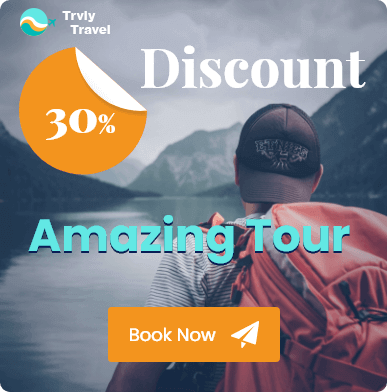
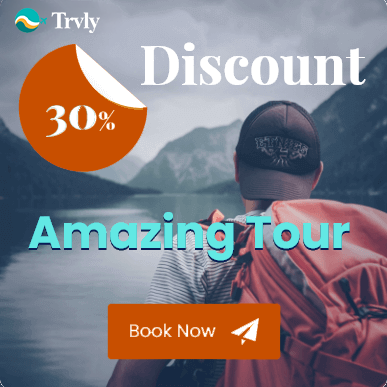
Accessibility improvements.

diff --git a/assets/components/footer.html b/assets/components/footer.html
@@ -1,29 +1,31 @@
 <!-- newsletter area Start -->
-<div class="newsletter-area">
-    <div class="container">
-        <div class="newsletter-area-wrap border-tp-solid">
-            <div class="row">
-                <div class="col-xl-3 col-lg-6 col-md-5 offset-xl-2">
-                    <div class="section-title mb-md-0">
-                        <h2 class="title">Newsletter</h2>
-                        <p>Sign up to receive the best offers</p>
-                    </div>
-                </div>
-                <div class="col-xl-4 col-lg-6 col-md-7 align-self-center offset-xl-1">
-                    <div class="input-group newsletter-wrap">
-                        <div class="input-group-prepend">
-                            <span class="input-group-text"><i class="fa fa-envelope"></i></span>
+<section aria-label="Newsletter subscription">
+    <div class="newsletter-area">
+        <div class="container">
+            <div class="newsletter-area-wrap border-tp-solid">
+                <div class="row">
+                    <div class="col-xl-3 col-lg-6 col-md-5 offset-xl-2">
+                        <div class="section-title mb-md-0">
+                            <h2 class="title">Newsletter</h2>
+                            <p>Sign up to receive the best offers</p>
                         </div>
-                        <input type="text" class="form-control" placeholder="Email">
-                        <div class="input-group-append">
-                            <button class="btn btn-yellow" type="button">Subscribe</button>
+                    </div>
+                    <div class="col-xl-4 col-lg-6 col-md-7 align-self-center offset-xl-1">
+                        <div class="input-group newsletter-wrap">
+                            <div class="input-group-prepend">
+                                <span class="input-group-text"><i class="fa fa-envelope"></i></span>
+                            </div>
+                            <input type="text" class="form-control" placeholder="Email">
+                            <div class="input-group-append">
+                                <button class="btn btn-yellow" type="button">Subscribe</button>
+                            </div>
                         </div>
                     </div>
                 </div>
             </div>
         </div>
     </div>
-</div>
+</section>
 <!-- newsletter area End -->
 
 <!-- footer area start -->

diff --git a/assets/css/style.css b/assets/css/style.css
@@ -2,7 +2,7 @@
 
 
 :root {
-  --main-color-one: #F3941E;
+  --main-color-one: #c84f00;
   --main-color-two: #071C55;
   --heading-color: #071C55;
   --paragraph-color: #666;
@@ -623,7 +623,7 @@ ul {
   height: 100%;
   z-index: 1;
   opacity: 0;
-  background-color: rgba(255, 255, 255, 0.2);
+  background-color: rgba(255, 255, 255, 0.25);
   -webkit-transform: scale(1, 0.5);
   -ms-transform: scale(1, 0.5);
   transform: scale(1, 0.5);
@@ -6956,7 +6956,7 @@ ul.wp-block-latest-posts.is-grid.alignwide {
 
 .user-verification .notice {
   background: #F8F8F8;
-  border: 1px solid #F3941E;
+  border: 1px solid #c84f00;
   border-radius: 4px;
   height: 50px;
   width: 100%;

diff --git a/index.html b/index.html
@@ -90,8 +90,7 @@
                         </div>
                         <div class="col-lg-2 col-md-4">
                             <div class="tp-search-single-wrap">
-                                <input class="w-100 destination-autocomplete" type="text"
-                                    placeholder="Departuring City">
+                                <input class="w-100 destination-autocomplete" type="text" placeholder="Where From?">
                                 <i class="fa fa-dot-circle-o"></i>
                             </div>
                         </div>

diff --git a/destination-list.html b/destination-list.html
@@ -320,8 +320,8 @@
     <script src="assets/js/jquery-ui.min.js"></script>
     <script src="assets/js/jarallax.min.js"></script>
 
-    <!-- Component Loader - Must be after jQuery plugins but BEFORE main.js -->`n
-    <script src="assets/js/components-loader.js"></script>`n`n <!-- main js -->`n
+    <!-- Component Loader - Must be after jQuery plugins but BEFORE main.js -->
+    <script src="assets/js/components-loader.js"></script> <!-- main js -->
     <script src="assets/js/main.js"></script>
 
 </body>

diff --git a/user-profile.html b/user-profile.html
@@ -362,8 +362,8 @@
     <script src="assets/js/jquery-ui.min.js"></script>
     <script src="assets/js/jarallax.min.js"></script>
 
-    <!-- Component Loader - Must be after jQuery plugins but BEFORE main.js -->`n
-    <script src="assets/js/components-loader.js"></script>`n`n <!-- main js -->`n
+    <!-- Component Loader - Must be after jQuery plugins but BEFORE main.js -->
+    <script src="assets/js/components-loader.js"></script> <!-- main js -->
     <script src="assets/js/main.js"></script>
 
 </body>

diff --git a/contact.html b/contact.html
@@ -181,8 +181,8 @@
     <script src="assets/js/jquery-ui.min.js"></script>
     <script src="assets/js/jarallax.min.js"></script>
 
-    <!-- Component Loader - Must be after jQuery plugins but BEFORE main.js -->`n
-    <script src="assets/js/components-loader.js"></script>`n`n <!-- main js -->
+    <!-- Component Loader - Must be after jQuery plugins but BEFORE main.js -->
+    <script src="assets/js/components-loader.js"></script> <!-- main js -->
     <script src="assets/js/main.js"></script>
 
 

diff --git a/tour-details.html b/tour-details.html
@@ -504,8 +504,8 @@
     <script src="assets/js/jquery-ui.min.js"></script>
     <script src="assets/js/jarallax.min.js"></script>
 
-    <!-- Component Loader - Must be after jQuery plugins but BEFORE main.js -->`n
-    <script src="assets/js/components-loader.js"></script>`n`n <!-- main js -->
+    <!-- Component Loader - Must be after jQuery plugins but BEFORE main.js -->
+    <script src="assets/js/components-loader.js"></script> <!-- main js -->
     <script src="assets/js/main.js"></script>
 
 

diff --git a/tour-list.html b/tour-list.html
@@ -337,8 +337,8 @@
     <script src="assets/js/jquery-ui.min.js"></script>
     <script src="assets/js/jarallax.min.js"></script>
 
-    <!-- Component Loader - Must be after jQuery plugins but BEFORE main.js -->`n
-    <script src="assets/js/components-loader.js"></script>`n`n <!-- main js -->
+    <!-- Component Loader - Must be after jQuery plugins but BEFORE main.js -->
+    <script src="assets/js/components-loader.js"></script> <!-- main js -->
     <script src="assets/js/main.js"></script>
 
 

diff --git a/assets/components/header.html b/assets/components/header.html
@@ -44,7 +44,7 @@
         </div>
         <div class="collapse navbar-collapse" id="tp_main_menu">
             <div class="logo-wrapper desktop-logo">
-                <a href="/" class="main-logo">
+                <a href="index.page" class="main-logo">
                     <img src="assets/img/logo.png" alt="logo">
                 </a>
                 <a href="/" class="sticky-logo">
